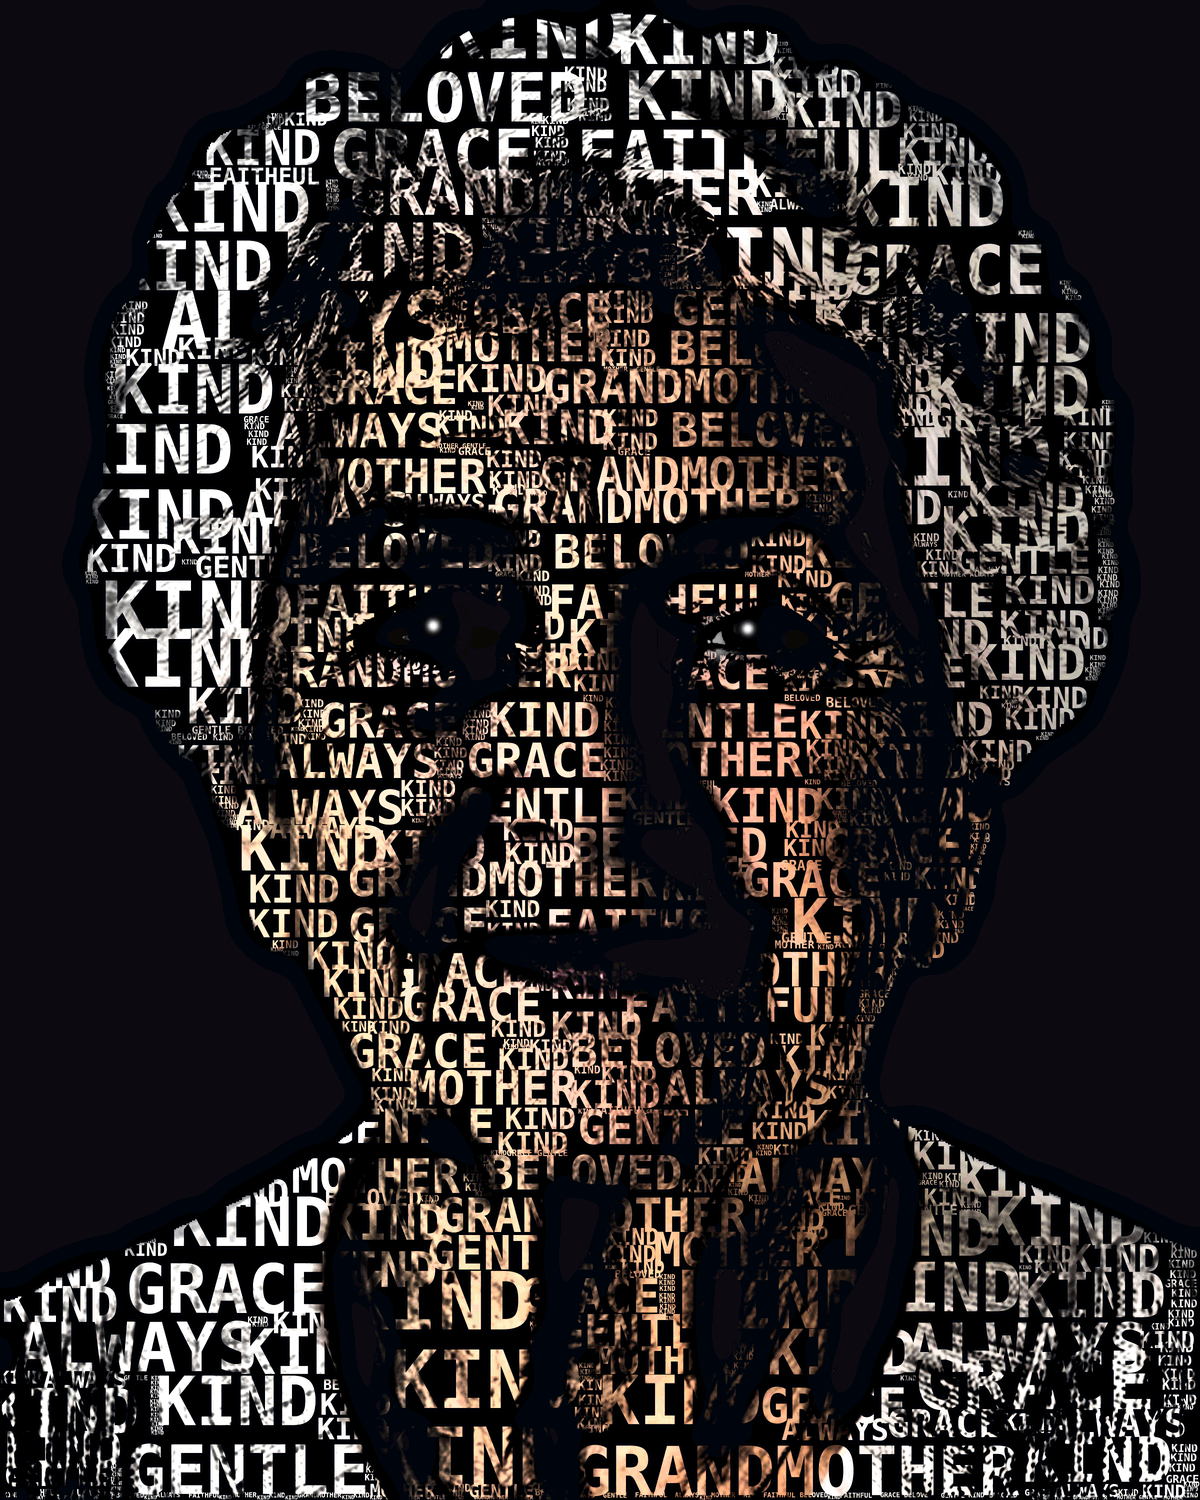
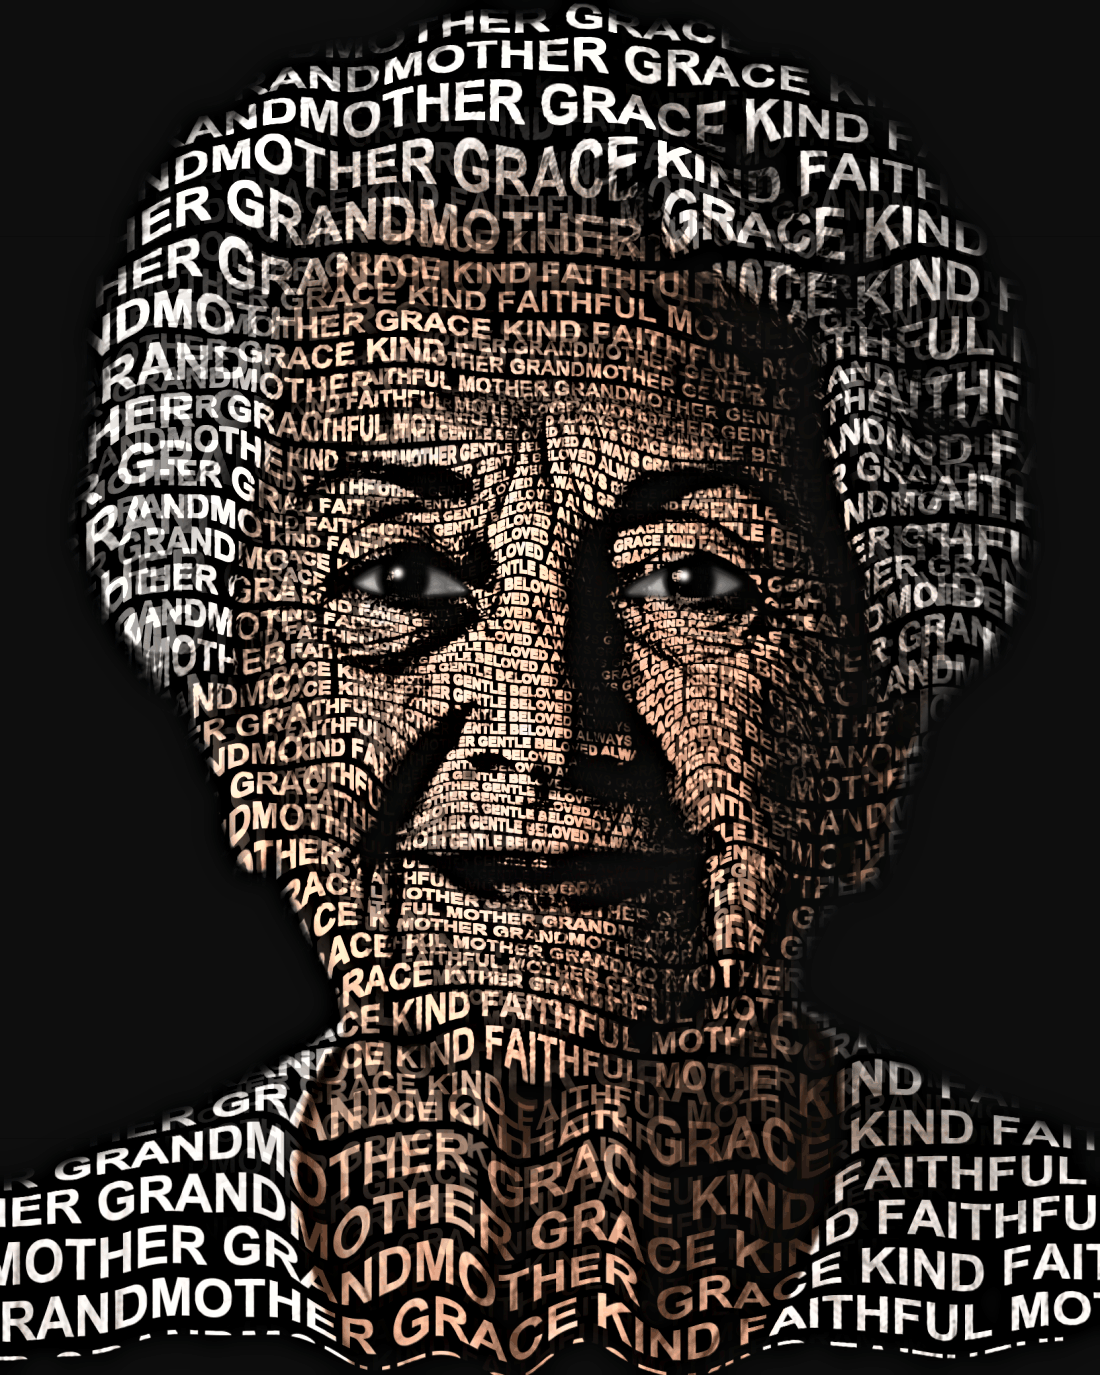
Marketing (lovedinwords.com): re-render all showcases with current engine
Refreshed every Sculpt showcase through the improved engine (natural eyes/sclera,
focus-group pass, importance-weighted words): the five gallery remembrances
(grace/ruth/james/robert/eleanor), the index before/after (portrait.jpg = grace),
the three gallery thumbnails, the framed desk hero (scene.jpg, re-composited), and
the two testimonial renders (copied from the shared set). Same subjects/words, so
captions still match. Gallery afters re-quantized to 256 colors (~600-800KB, was
2MB raw). Cache versions bumped (afters v=2, scene v=5, portrait v=5, examples/
testimonials v=3).

diff --git a/typography_engine/marketing/lovedinwords/index.html b/typography_engine/marketing/lovedinwords/index.html
@@ -136,7 +136,7 @@ footer .by{display:block; margin-top:8px; font-size:12px; color:var(--muted); op
     <p class="sub">A photo of the person you've lost becomes a portrait composed of their name, their dates, and the words that captured who they were — printed, framed, and ready to hang or to give.</p>
     <a class="btn" href="https://app.typortrait.com/?brand=lovedinwords">Create a remembrance keepsake</a>
     <span class="free">Free to create and preview — you only order it if it feels right.</span>
-    <img class="shot scene" src="scene.jpg?v=4" alt="A lifelike memorial portrait made from words, framed on a desk beside a candle and flowers" />
+    <img class="shot scene" src="scene.jpg?v=5" alt="A lifelike memorial portrait made from words, framed on a desk beside a candle and flowers" />
     <button type="button" class="zoomlink" id="zoomBtn">&#128269; View the words up close</button>
   </header>
 
@@ -144,7 +144,7 @@ footer .by{display:block; margin-top:8px; font-size:12px; color:var(--muted); op
     <h2>Made from a photo and the words you choose</h2>
     <p class="lede">Drag to see the change — their photograph becomes a portrait of the words that describe them.</p>
     <div class="ba" id="ba" aria-label="Drag to compare the photograph and the portrait made from words">
-      <img class="ba-after" src="portrait.jpg?v=4" alt="A portrait made from the words that describe her" />
+      <img class="ba-after" src="portrait.jpg?v=5" alt="A portrait made from the words that describe her" />
       <div class="ba-before" id="baBefore"><img src="grace-before.jpg" alt="The original photograph" /></div>
       <div class="ba-line" id="baLine"></div>
       <div class="ba-grip" id="baGrip">&#8596;</div>
@@ -157,9 +157,9 @@ footer .by{display:block; margin-top:8px; font-size:12px; color:var(--muted); op
     <h2>A few remembrances</h2>
     <p class="lede">Each one is made entirely from the words a family chose — a name, the dates, the way they were loved.</p>
     <div class="gallery">
-      <figure class="gcard"><img src="example-1.jpg?v=2" loading="lazy" alt="A memorial word-portrait of a grandmother, formed from words like mama, grandma, faithful and kind" /><figcaption>Mama, Grandma, Faithful, Patient — the words that were her.</figcaption></figure>
-      <figure class="gcard"><img src="example-2.jpg?v=2" loading="lazy" alt="A memorial word-portrait of a mother, formed from words like mother, grace, devoted and faith" /><figcaption>Mother, Grace, Devoted, Faith — woven into her likeness.</figcaption></figure>
-      <figure class="gcard"><img src="example-3.jpg?v=2" loading="lazy" alt="A memorial word-portrait of a man, formed from words like father, grandpa, mentor and wise" /><figcaption>Father, Grandpa, Mentor, Wise — every word that was him.</figcaption></figure>
+      <figure class="gcard"><img src="example-1.jpg?v=3" loading="lazy" alt="A memorial word-portrait of a grandmother, formed from words like mama, grandma, faithful and kind" /><figcaption>Mama, Grandma, Faithful, Patient — the words that were her.</figcaption></figure>
+      <figure class="gcard"><img src="example-2.jpg?v=3" loading="lazy" alt="A memorial word-portrait of a mother, formed from words like mother, grace, devoted and faith" /><figcaption>Mother, Grace, Devoted, Faith — woven into her likeness.</figcaption></figure>
+      <figure class="gcard"><img src="example-3.jpg?v=3" loading="lazy" alt="A memorial word-portrait of a man, formed from words like father, grandpa, mentor and wise" /><figcaption>Father, Grandpa, Mentor, Wise — every word that was him.</figcaption></figure>
     </div>
     <p style="text-align:center;margin:26px 0 0"><a href="gallery.html" style="font-weight:600">See the full gallery &rarr;</a></p>
   </section>
@@ -185,7 +185,7 @@ footer .by{display:block; margin-top:8px; font-size:12px; color:var(--muted); op
     <div class="tstx-grid">
       <figure class="tstx-card">
         <div class="tba" style="--p:55%">
-          <img class="tba-after" src="tst-grandma-after.jpg" width="880" height="1100" loading="lazy" alt="A remembrance word-portrait of a grandmother, made from the words that describe her" />
+          <img class="tba-after" src="tst-grandma-after.jpg?v=3" width="880" height="1100" loading="lazy" alt="A remembrance word-portrait of a grandmother, made from the words that describe her" />
           <div class="tba-before"><img src="tst-grandma-before.jpg" width="880" height="1100" loading="lazy" alt="The original photograph of a grandmother" /></div>
           <span class="tba-tag l">their photo</span><span class="tba-tag r">in their words</span>
           <div class="tba-line"></div><div class="tba-grip">&#8596;</div>
@@ -197,7 +197,7 @@ footer .by{display:block; margin-top:8px; font-size:12px; color:var(--muted); op
       </figure>
       <figure class="tstx-card">
         <div class="tba" style="--p:55%">
-          <img class="tba-after" src="tst-poppy-after.jpg" width="880" height="1100" loading="lazy" alt="A remembrance word-portrait of a grandfather, made from the words that describe him" />
+          <img class="tba-after" src="tst-poppy-after.jpg?v=3" width="880" height="1100" loading="lazy" alt="A remembrance word-portrait of a grandfather, made from the words that describe him" />
           <div class="tba-before"><img src="tst-poppy-before.jpg" width="880" height="1100" loading="lazy" alt="The original photograph of a grandfather" /></div>
           <span class="tba-tag l">their photo</span><span class="tba-tag r">in their words</span>
           <div class="tba-line"></div><div class="tba-grip">&#8596;</div>
@@ -253,7 +253,7 @@ footer .by{display:block; margin-top:8px; font-size:12px; color:var(--muted); op
 </footer>
 <div class="zoomview" id="zoomView">
   <button class="zoomclose" id="zoomClose" aria-label="Close">&times;</button>
-  <img src="portrait.jpg?v=4" alt="The portrait up close — made from the words that describe her" />
+  <img src="portrait.jpg?v=5" alt="The portrait up close — made from the words that describe her" />
 </div>
 <script>
 (function(){

diff --git a/typography_engine/marketing/lovedinwords/gallery.html b/typography_engine/marketing/lovedinwords/gallery.html
@@ -141,7 +141,7 @@ footer .by{display:block; margin-top:8px; font-size:12px; color:var(--muted); op
     <h1>A portrait of a life, in the words that describe them.</h1>
     <p class="sub">Every remembrance below is composed entirely of the words a family would choose — a name, the roles they filled, the way they were loved. Drag to see the change, and tap any portrait to read the words up close.</p>
     <div class="ba" aria-label="Drag to compare the photograph and the portrait made from words">
-      <img class="ba-after" src="grace-after.png?v=1" alt="A portrait of a grandmother made from the words that describe her" />
+      <img class="ba-after" src="grace-after.png?v=2" alt="A portrait of a grandmother made from the words that describe her" />
       <div class="ba-before"><img src="grace-before.jpg" alt="The original photograph" /></div>
       <div class="ba-line"></div>
       <div class="ba-grip">&#8596;</div>
@@ -155,11 +155,11 @@ footer .by{display:block; margin-top:8px; font-size:12px; color:var(--muted); op
     <h2>A few remembrances</h2>
     <p class="lede">Up close you read the words that tell their story; from across the room, you see them. Tap any portrait to look closely.</p>
     <div class="gallery">
-      <figure class="gcard"><img src="grace-after.png?v=1" loading="lazy" alt="A memorial word-portrait of a grandmother, formed from words like mother, grandmother, grace, kind and faithful" /><figcaption>Mother, Grandmother, Faithful, Kind — the words that were her.</figcaption></figure>
-      <figure class="gcard"><img src="ruth-after.png?v=1" loading="lazy" alt="A sculpted memorial portrait of a grandmother, her likeness drawn from words like nana, joyful, devoted and tender" /><figcaption>Mom, Nana, Devoted, Tender — her likeness, in her words.</figcaption></figure>
-      <figure class="gcard"><img src="james-after.png?v=1" loading="lazy" alt="A memorial portrait of a father formed from a written tribute to him" /><figcaption>A father's tribute, shaped gently into his likeness.</figcaption></figure>
-      <figure class="gcard"><img src="robert-after.png?v=1" loading="lazy" alt="A memorial word-portrait of a father, formed from words like father, grandpa, mentor and wise" /><figcaption>Father, Grandpa, Mentor, Wise — every word that was him.</figcaption></figure>
-      <figure class="gcard"><img src="eleanor-after.png?v=1" loading="lazy" alt="A memorial word-portrait of a mother, formed from words like mother, grandmother, grace, faith and tender" /><figcaption>Mother, Grace, Faith, Tender — woven into her likeness.</figcaption></figure>
+      <figure class="gcard"><img src="grace-after.png?v=2" loading="lazy" alt="A memorial word-portrait of a grandmother, formed from words like mother, grandmother, grace, kind and faithful" /><figcaption>Mother, Grandmother, Faithful, Kind — the words that were her.</figcaption></figure>
+      <figure class="gcard"><img src="ruth-after.png?v=2" loading="lazy" alt="A sculpted memorial portrait of a grandmother, her likeness drawn from words like nana, joyful, devoted and tender" /><figcaption>Mom, Nana, Devoted, Tender — her likeness, in her words.</figcaption></figure>
+      <figure class="gcard"><img src="james-after.png?v=2" loading="lazy" alt="A memorial portrait of a father formed from a written tribute to him" /><figcaption>A father's tribute, shaped gently into his likeness.</figcaption></figure>
+      <figure class="gcard"><img src="robert-after.png?v=2" loading="lazy" alt="A memorial word-portrait of a father, formed from words like father, grandpa, mentor and wise" /><figcaption>Father, Grandpa, Mentor, Wise — every word that was him.</figcaption></figure>
+      <figure class="gcard"><img src="eleanor-after.png?v=2" loading="lazy" alt="A memorial word-portrait of a mother, formed from words like mother, grandmother, grace, faith and tender" /><figcaption>Mother, Grace, Faith, Tender — woven into her likeness.</figcaption></figure>
     </div>
   </section>
 
@@ -167,7 +167,7 @@ footer .by{display:block; margin-top:8px; font-size:12px; color:var(--muted); op
     <h2>And another, in his words</h2>
     <p class="lede">A father, a grandfather — his face drawn from the words his family chose. Drag to see the change.</p>
     <div class="ba" aria-label="Drag to compare the photograph and the portrait made from words">
-      <img class="ba-after" src="robert-after.png?v=1" alt="A portrait of a father made from the words that describe him" />
+      <img class="ba-after" src="robert-after.png?v=2" alt="A portrait of a father made from the words that describe him" />
       <div class="ba-before"><img src="robert-before.jpg" alt="The original photograph" /></div>
       <div class="ba-line"></div>
       <div class="ba-grip">&#8596;</div>
@@ -178,7 +178,7 @@ footer .by{display:block; margin-top:8px; font-size:12px; color:var(--muted); op
 
   <section>
     <div class="kept">
-      <img src="scene.jpg?v=4" alt="A memorial word-portrait, printed and framed on a desk beside a candle and flowers" />
+      <img src="scene.jpg?v=5" alt="A memorial word-portrait, printed and framed on a desk beside a candle and flowers" />
       <div class="kt">
         <h2>Made to be kept</h2>
         <p>Printed on archival stock and framed, it becomes a quiet place for the eyes to rest — at the service, in the home, on the wall for years after.</p>
@@ -235,7 +235,7 @@ footer .by{display:block; margin-top:8px; font-size:12px; color:var(--muted); op
 
 <div class="zoomview" id="zoomView">
   <button class="zoomclose" id="zoomClose" aria-label="Close">&times;</button>
-  <img id="zoomImg" src="grace-after.png?v=1" alt="A memorial portrait up close — made from the words that describe them" />
+  <img id="zoomImg" src="grace-after.png?v=2" alt="A memorial portrait up close — made from the words that describe them" />
 </div>
 
 <script>
